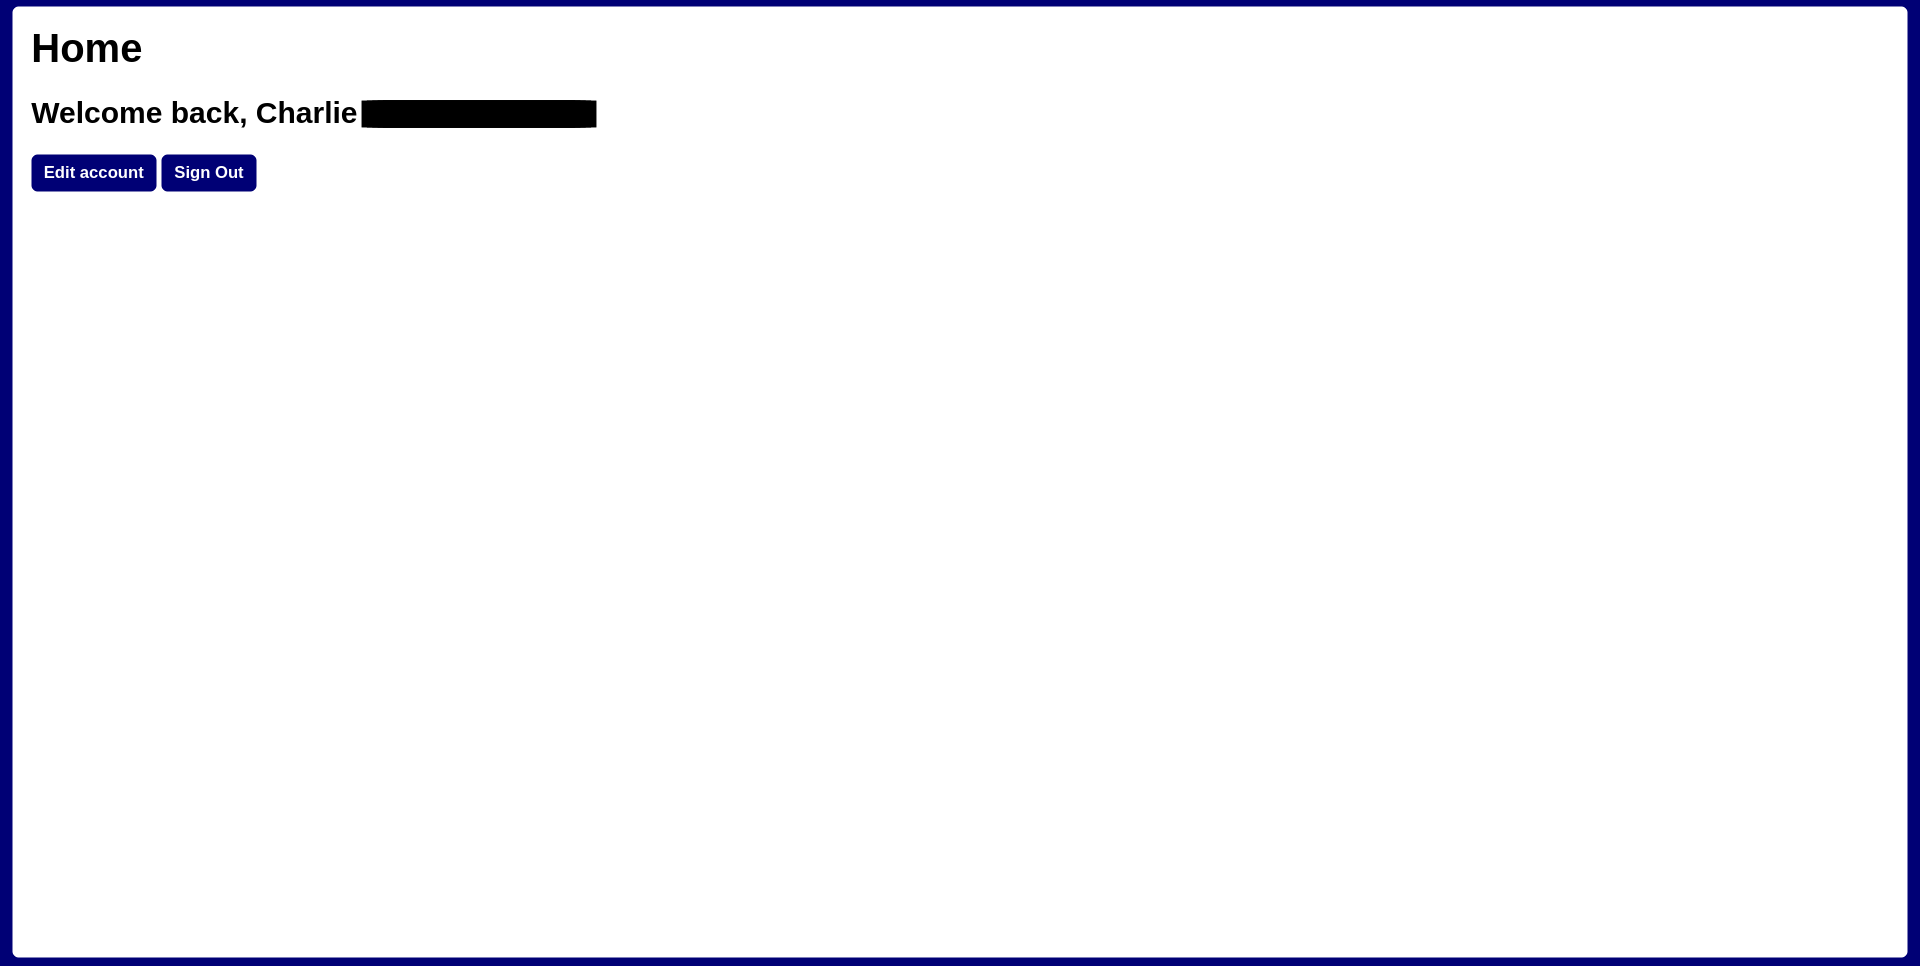
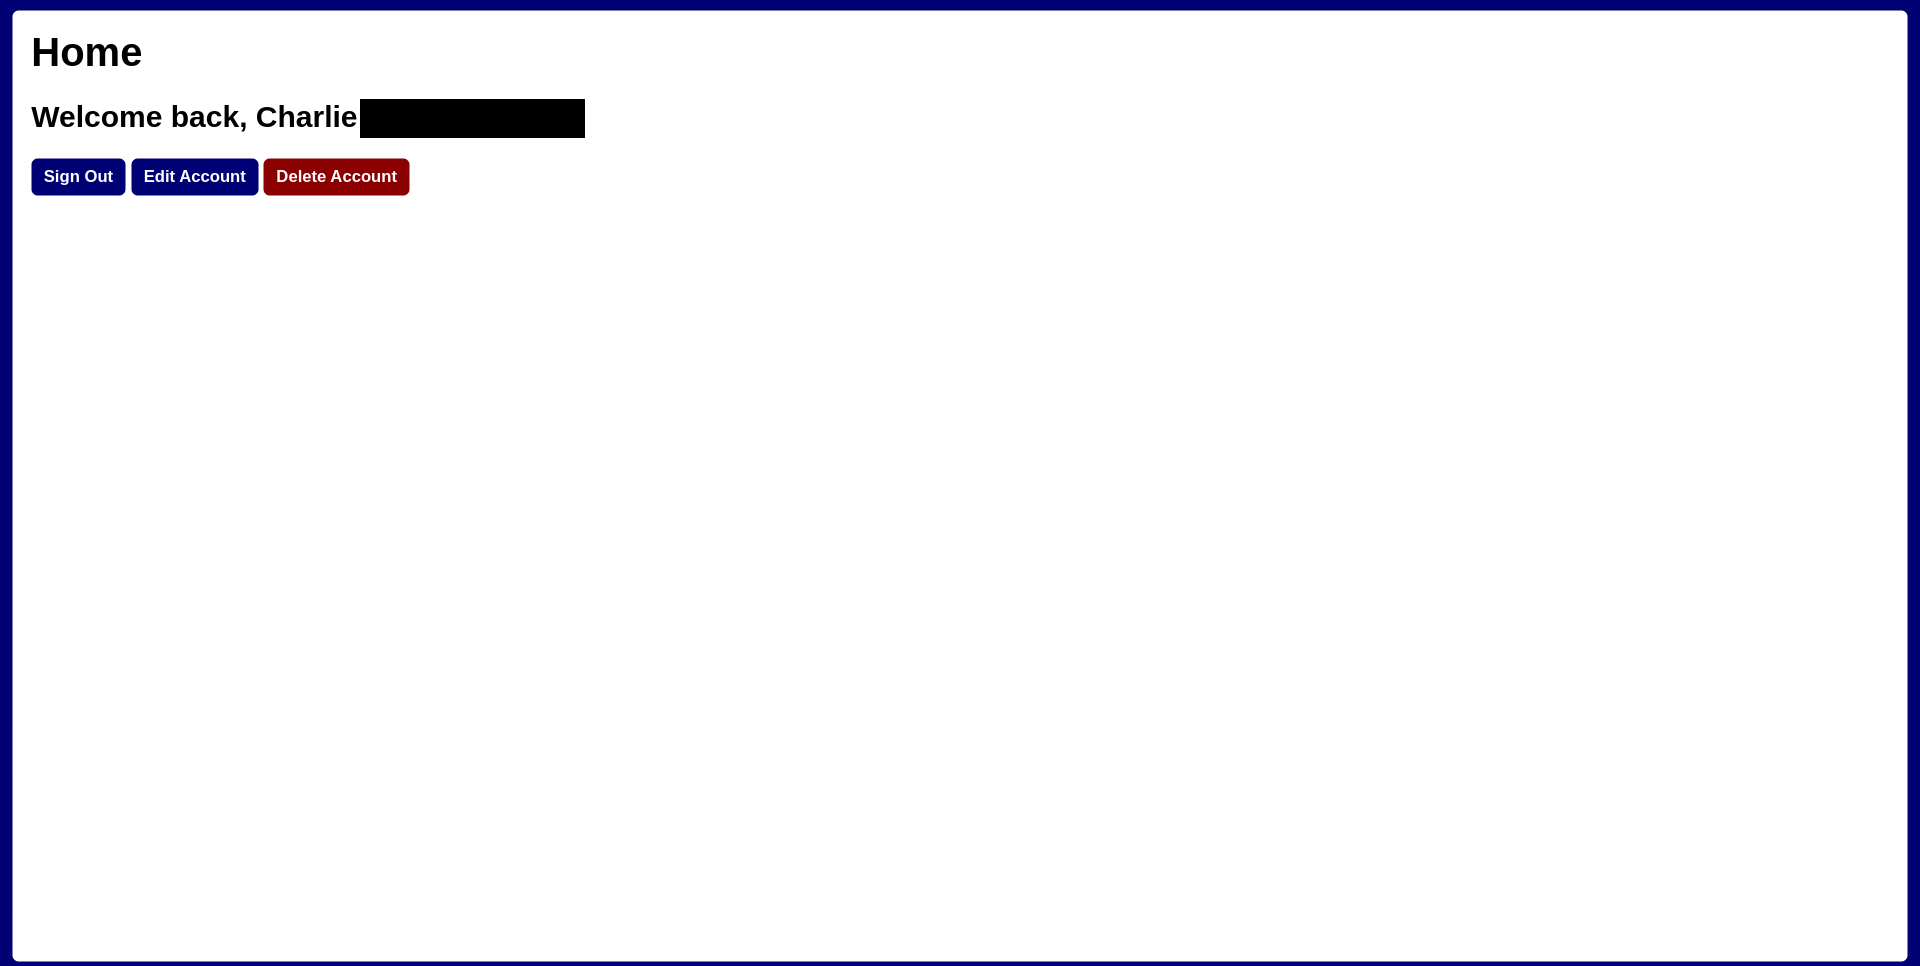
delete account

Changed region(s): [[0.0, 0.0, 1.0, 0.0621], [0.0, 0.9938, 1.0, 1.0], [0.0, 0.0932, 0.3125, 0.2174]]

diff --git a/controller/view.js b/controller/view.js
@@ -43,8 +43,9 @@ const homePage = async (req, res, next) => {
                     <h1 class="page__title">Home</h1>
                     <h2>Welcome back, ${firstName} ${lastName}</h2>
                     <div class="page__button-panel">
-                        <button type="button" class="page__button-panel__button" id="editaccount-button">Edit account</button>
                         <button type="button" class="page__button-panel__button" id="signout-button">Sign Out</button>
+                        <button type="button" class="page__button-panel__button" id="editaccount-button">Edit Account</button>
+                        <button type="button" class="page__button-panel__button danger" id="deleteaccount-button">Delete Account</button>
                     </div>
                 </div>
                 <script src="https://ajax.googleapis.com/ajax/libs/jquery/3.6.4/jquery.min.js"></script>
@@ -155,11 +156,24 @@ const editPage = async (req, res, next) => {
     `)
 }
 
+// Form for deleting account
+const deletePage = (req, res, next) => {
+    const session = req.cookies.session
+
+    if (!session) {
+        res.redirect('/sign-in')
+        return
+    }
+
+    res.render('delete.html')
+}
+
 module.exports = { 
     signInPage, 
     signUpPage, 
     homePage,
     editPage,
+    deletePage,
     getIdFromSession,
     getUserDetails
 }

diff --git a/controller/auth.js b/controller/auth.js
@@ -172,9 +172,41 @@ const editAccount = async (req, res) => {
     return true
 }
 
+const deleteAccount = async (req, res) => {
+    const db = await open({
+        filename: "accounts.db",
+        driver: Database
+    })
+
+    const { verifypassword: verifyPassword } = req.body
+
+    const session = req.cookies.session
+
+    const id = await getIdFromSession(session)
+
+    const { password: hash } = await getUserDetails(id) // Get account password as bcrypt hash
+
+    const verifyPasswordCorrect = await bcrypt.compare(verifyPassword, hash)
+
+    if (!verifyPasswordCorrect) {
+        res.status(401).end("Incorrect password")
+        return false
+    }
+
+    // Delete account and all sessions
+    await db.run("DELETE FROM users WHERE id = ?", id)
+    await db.run("DELETE FROM sessions WHERE id = ?", id)
+    await db.close()
+
+    res.clearCookie('session') // Clear session cookie
+    res.redirect('/sign-in') // Go to sign in page
+    return true
+}
+
 module.exports = {
     signUp,
     signIn,
     signOut,
-    editAccount
+    editAccount,
+    deleteAccount
 }

diff --git a/public/delete.html b/public/delete.html
@@ -1,0 +1,19 @@
+<!DOCTYPE html>
+<html>
+    <head lang="en">
+        <meta charset="utf-8">
+        <title>Delete Account</title>
+        <link rel="stylesheet" href="/styles.css">
+    </head>
+    <body>
+        <div class="login">
+            <form action="/api/delete" method="POST">
+                <fieldset>
+                    <label for="verifypassword" class="login__label">Verify Password</label>
+                    <input type="password" class="login__input" name="verifypassword" id="verifypassword" required>
+                </fieldset>
+                <input type="submit" class="login__submit danger" value="DELETE ACCOUNT">
+            </form>
+        </div>
+    </body>
+</html>

diff --git a/router/post.js b/router/post.js
@@ -8,5 +8,6 @@ router.post('/sign-up', authController.signUp)
 router.post('/sign-in', authController.signIn)
 router.post('/sign-out', authController.signOut)
 router.post('/edit', authController.editAccount)
+router.post('/delete', authController.deleteAccount)
 
 module.exports = router

diff --git a/router/get.js b/router/get.js
@@ -8,5 +8,6 @@ router.get('/sign-up', viewController.signUpPage)
 router.get('/sign-in', viewController.signInPage)
 router.get('/', viewController.homePage)
 router.get('/edit', viewController.editPage)
+router.get('/delete', viewController.deletePage)
 
 module.exports = router

diff --git a/public/scripts/home.js b/public/scripts/home.js
@@ -7,3 +7,7 @@ $('#signout-button').click(() => { // When signout button is clicked
 $('#editaccount-button').click(() => {
     location.href = "/edit"
 })
+
+$('#deleteaccount-button').click(() => {
+    location.href = "/delete"
+})

diff --git a/public/styles.css b/public/styles.css
@@ -100,3 +100,7 @@ div.page__edit {
     max-width: 500px;
     margin-top: 15px;
 }
+
+input[type=submit].danger, button.danger {
+    background-color: darkred;
+}

diff --git a/README.md b/README.md
@@ -48,4 +48,6 @@ By default, the program can be accessed on ``http://localhost:8080`` or from ano
 
 <img src="screenshots/edit.png" alt="Edit account page (private info hidden)" style="width: 100%">
 
+<img src="screenshots/delete.png" alt="Delete account page" style="width: 100%">
+
 <img src="screenshots/404.png" alt="Error 404 not found" style="width: 100%">
